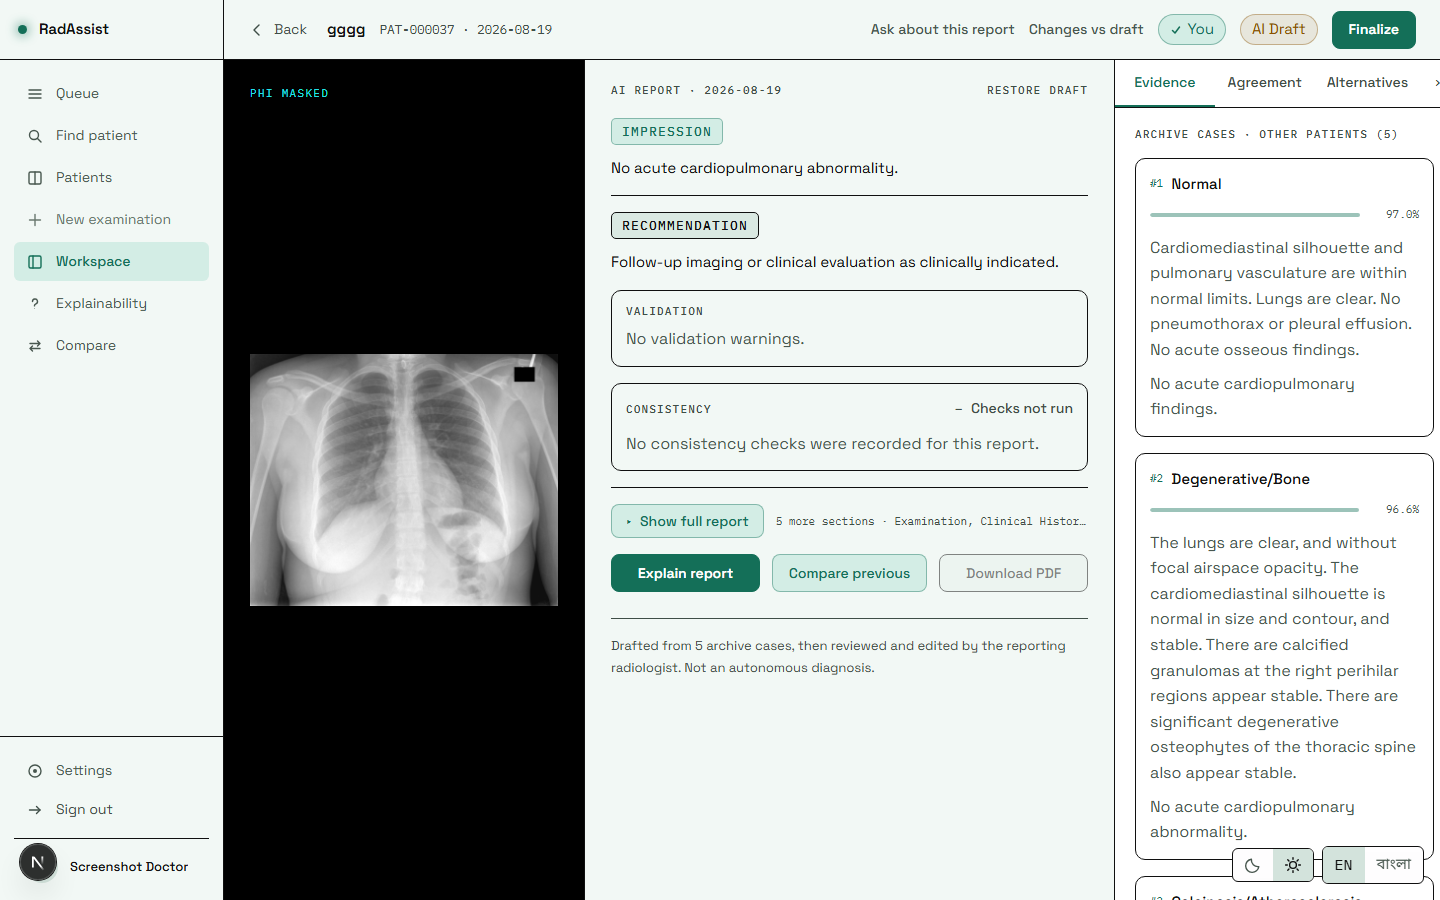
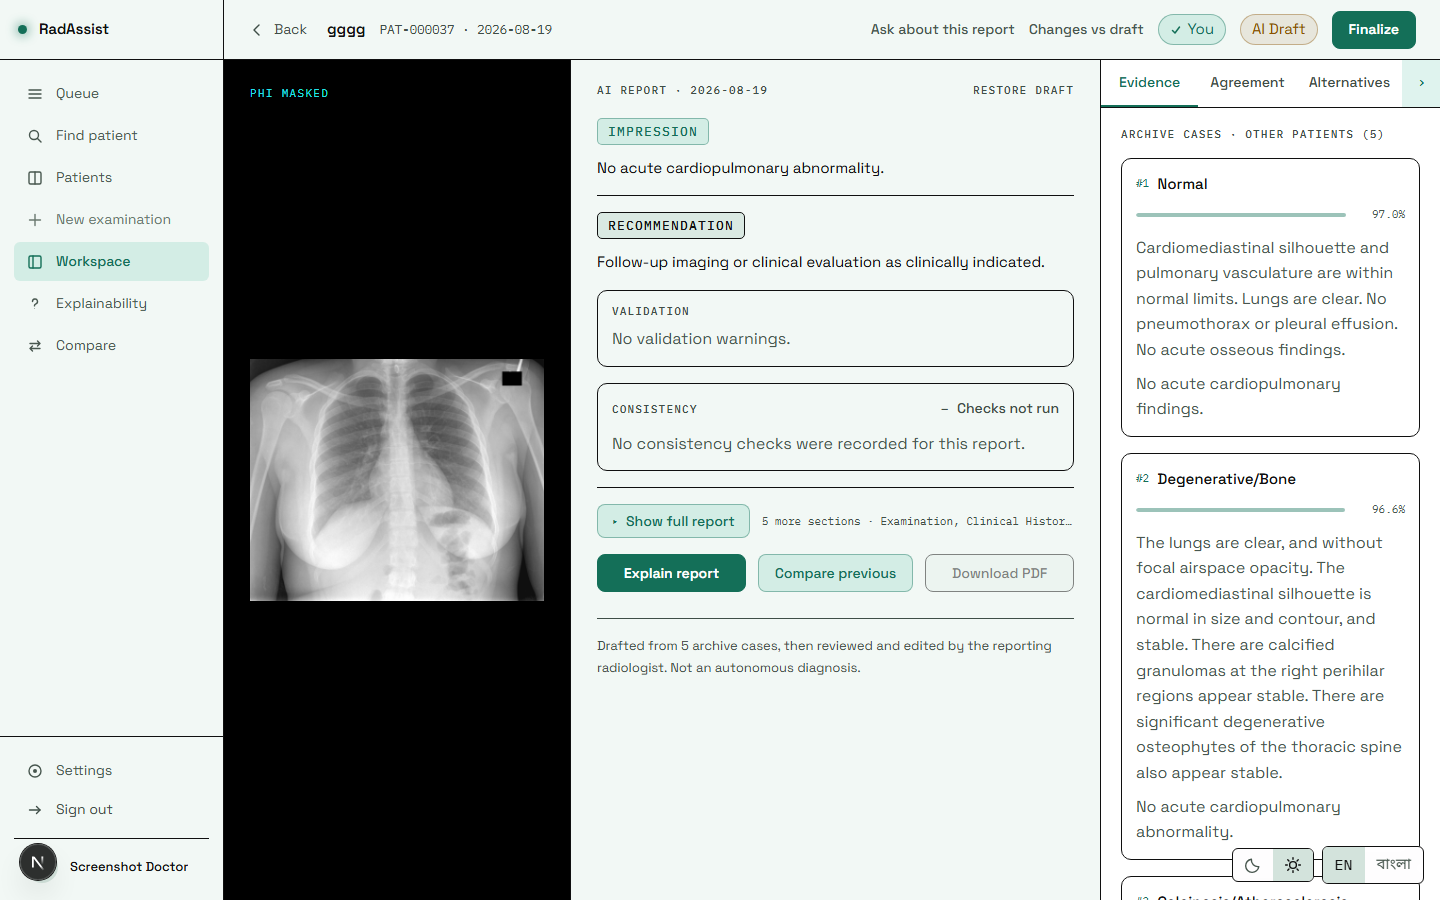
fix(ui): make the evidence panel's collapse control findable, and fit the station to its frame
The evidence sidebar has collapsed to a rail since the feature landed, but it
was reported as having no way to hide it. Two separate causes, both real.

THE CONTROL WAS CLIPPED. The station is 224 rail + 360 film + 530 report + 340
evidence = 1454px, inside a frame tokens.css calls "fixed 1440x900". The
rightmost 14px sat off screen, and what lived there was the collapse control
itself -- so the single affordance for putting the panel away was the one thing
a 1440px monitor could not show. The film floor was an inline min-w-[360px];
it is now --film-min at 346px, which is not a taste value but the number that
makes the four columns sum to exactly 1440. A new test asserts that sum, in
both the expanded and docked states, because every value involved was
individually fine and the defect was only in their total -- nothing in the type
system or the design gate could have caught it.

THE CONTROL WAS ALSO INVISIBLE. Collapsed, the way back was a 28px chevron in
tertiary grey with no border and no fill, sitting at the top of the rail. The
whole rail is now the button: a full-height target carrying the accent wash and
its own vertical "EVIDENCE" label, so the stripe says what it will open instead
of only that something will. Expanded, the hide control gets the same wash and
a left rule so it reads as a control rather than as a fourth, unlabelled tab.

A test now covers the thing that was actually wrong. Being findable by
[…]

diff --git a/frontend/src/components/report/evidence-sidebar.tsx b/frontend/src/components/report/evidence-sidebar.tsx
@@ -62,25 +62,44 @@ export function EvidenceSidebar({
       )}
     >
       {collapsed ? (
-        // The rail. One icon-only control, labelled for assistive tech, which
-        // is the only thing that can bring the panel back.
-        <div className="flex flex-col items-center py-12">
-          <button
-            type="button"
-            onClick={onToggle}
-            aria-expanded={false}
-            aria-controls={id}
-            aria-label={t("workspace.expandEvidence")}
-            title={t("workspace.expandEvidence")}
-            className={cn(
-              "flex h-28 w-28 items-center justify-center rounded-control",
-              "font-mono text-mono-meta text-text-tertiary",
-              "transition-colors duration-hover hover:bg-bg-hover hover:text-cyan",
-            )}
+        // THE WHOLE RAIL IS THE BUTTON.
+        //
+        // It was a 28px icon-only control at the top of the rail, and it was
+        // reported as invisible -- correctly: a bare chevron glyph in tertiary
+        // grey, with no border and no fill, is indistinguishable from
+        // decoration. A reader who collapsed the panel could not tell there
+        // was a way back, which defeats the entire reason this docks to a rail
+        // instead of closing.
+        //
+        // Two things fix that and they work together. The hit target is now
+        // the full height of the rail, so the click is hard to miss rather
+        // than needing to be aimed; and the rail carries its own name, set
+        // vertically, so it says WHAT it will open rather than only that
+        // something will. A docked panel that does not name itself is a
+        // mystery stripe.
+        <button
+          type="button"
+          onClick={onToggle}
+          aria-expanded={false}
+          aria-controls={id}
+          aria-label={t("workspace.expandEvidence")}
+          title={t("workspace.expandEvidence")}
+          className={cn(
+            "group flex flex-1 flex-col items-center gap-14 py-14",
+            "border-l-2 border-transparent bg-cyan-wash text-cyan",
+            "transition-colors duration-hover hover:border-cyan hover:bg-cyan hover:text-cyan-ink",
+          )}
+        >
+          <span aria-hidden="true" className="font-mono text-mono-meta-lg leading-none">
+            ‹
+          </span>
+          <span
+            aria-hidden="true"
+            className="font-mono text-section-label uppercase tracking-[0.12em] [writing-mode:vertical-rl]"
           >
-            <span aria-hidden="true">‹</span>
-          </button>
-        </div>
+            {t("workspace.tabEvidence")}
+          </span>
+        </button>
       ) : (
         <div className="flex flex-none items-stretch border-b border-hairline">
           {EVIDENCE_TABS.map((tab) => (
@@ -97,6 +116,10 @@ export function EvidenceSidebar({
               {t(`workspace.tab${tab.charAt(0).toUpperCase()}${tab.slice(1)}`)}
             </button>
           ))}
+          {/* The hide control. Given the accent wash and a left rule so it
+              reads as a control rather than as a fourth, unlabelled tab -- it
+              sat flush against the tabs in bare tertiary grey and was
+              reported as invisible. */}
           <button
             type="button"
             onClick={onToggle}
@@ -105,9 +128,10 @@ export function EvidenceSidebar({
             aria-label={t("workspace.collapseEvidence")}
             title={t("workspace.collapseEvidence")}
             className={cn(
-              "flex w-34 flex-none items-center justify-center border-b-2 border-transparent border-l border-l-hairline",
-              "font-mono text-mono-meta text-text-tertiary",
-              "transition-colors duration-hover hover:text-cyan",
+              "flex w-38 flex-none items-center justify-center",
+              "border-b-2 border-transparent border-l border-l-hairline bg-cyan-wash",
+              "font-mono text-mono-meta-lg text-cyan",
+              "transition-colors duration-hover hover:bg-cyan hover:text-cyan-ink",
             )}
           >
             <span aria-hidden="true">›</span>

diff --git a/frontend/src/styles/layout-tokens.test.ts b/frontend/src/styles/layout-tokens.test.ts
@@ -1,0 +1,55 @@
+import { readFileSync } from "node:fs";
+import { fileURLToPath } from "node:url";
+import { describe, expect, it } from "vitest";
+
+/**
+ * The three-column reading station has to ADD UP to the frame it declares.
+ *
+ * It did not. `--rail` 224 + an inline `min-w-[360px]` film + `--report-col`
+ * 530 + `--evidence-panel` 340 came to 1454px inside a frame tokens.css calls
+ * "fixed 1440x900", so the rightmost 14px sat off screen. The thing living in
+ * those 14px was the evidence panel's collapse control, which is how the one
+ * affordance for putting that panel away came to be reported as missing.
+ *
+ * Nothing in the type system or the design gate can catch that: every value
+ * involved was individually fine, and the defect was in their sum. So the sum
+ * is asserted here, and the film floor is a token rather than an arbitrary
+ * value written into the page.
+ *
+ * The horizontal scroll below this width is deliberate and stays -- the
+ * station may be wider than a small monitor. What must not happen is the
+ * station being wider than its OWN declared width.
+ */
+const tokens = readFileSync(
+  fileURLToPath(new URL("./tokens.css", import.meta.url)),
+  "utf-8",
+).replace(/\r\n/g, "\n");
+
+function px(name: string): number {
+  const m = tokens.match(new RegExp(`--${name}:\\s*(\\d+)px`));
+  expect(m, `--${name} must be defined in tokens.css as a px value`).not.toBeNull();
+  return Number(m![1]);
+}
+
+describe("the reading station fits the frame it declares", () => {
+  it("sums the four columns to exactly 1440", () => {
+    const total = px("rail") + px("film-min") + px("report-col") + px("evidence-panel");
+    expect(total).toBe(1440);
+  });
+
+  it("still fits once the evidence panel docks to its rail", () => {
+    // Collapsed, the report column grows and the panel shrinks; the station
+    // must not overflow in that state either.
+    const total = px("rail") + px("film-min") + px("report-col-wide") + px("evidence-rail");
+    expect(total).toBeLessThanOrEqual(1440);
+  });
+
+  it("keeps the film floor as a token, not an arbitrary value in the page", () => {
+    const page = readFileSync(
+      fileURLToPath(new URL("../app/reports/[reportId]/page.tsx", import.meta.url)),
+      "utf-8",
+    );
+    expect(page).toContain("min-w-film");
+    expect(page).not.toMatch(/min-w-\[\d+px\]/);
+  });
+});

diff --git a/frontend/src/components/report/evidence-sidebar.test.tsx b/frontend/src/components/report/evidence-sidebar.test.tsx
@@ -76,6 +76,25 @@ describe("Evidence sidebar — default and toggle", () => {
     expect(panel(container).hasAttribute("hidden")).toBe(true);
   });
 
+  it("makes the docked rail itself the control, and names what it opens", () => {
+    const { container } = render(<Harness />);
+    fireEvent.click(collapseBtn());
+
+    // The reopen control was a 28px chevron in tertiary grey, reported as
+    // invisible. Being findable by aria-label is not the same as being
+    // findable by eye, so this asserts the two things that fixed it: the
+    // button fills the rail rather than sitting as an icon inside it, and it
+    // carries the panel's own name so the stripe says what it will open.
+    const btn = expandBtn();
+    expect(btn.className).toContain("flex-1");
+    expect(btn.className).toContain("bg-cyan-wash");
+    expect(btn.textContent).toContain("Evidence");
+
+    // And it is the only thing in the rail -- nothing else to aim at or miss.
+    const rail = aside(container);
+    expect(rail.querySelectorAll("button")).toHaveLength(1);
+  });
+
   it("reopens from the rail", () => {
     const { container } = render(<Harness />);
     fireEvent.click(collapseBtn());

diff --git a/frontend/src/styles/tokens.css b/frontend/src/styles/tokens.css
@@ -179,6 +179,18 @@
   --evidence-rail:   48px;
   --report-col-wide: 700px;
 
+  /* ---- film column floor. 346px is not a taste value: it is what makes the
+     three-column station ADD UP to the 1440px frame declared above
+     (224 rail + 346 film + 530 report + 340 evidence = 1440). It was 360px,
+     written inline as an arbitrary min-w-[360px], which put the station at
+     1454px and pushed its last 14px off a 1440px screen. The column that
+     lived in those 14px was the evidence panel's hide control, so the one
+     affordance for putting the panel away was the one thing clipped — which
+     is how it came to be reported as missing. The horizontal scroll is still
+     there and still deliberate for monitors NARROWER than the station; what
+     changed is that the declared width is no longer one of them. ---- */
+  --film-min:        346px;
+
   /* ---- measure — the comfortable line length for continuous report prose,
      used by the report column AND the evidence panel so both read the same.
      Replaces a hardcoded max-w-[68ch] that existed in two components. ---- */

diff --git a/frontend/src/app/reports/[reportId]/page.tsx b/frontend/src/app/reports/[reportId]/page.tsx
@@ -552,7 +552,7 @@ export default function ReportWorkspacePage() {
           narrower than the station, scroll rather than clip a column. */}
       <div className="flex min-h-0 flex-1 overflow-x-auto">
         {/* Film -- the only pure-black surface */}
-        <div className="relative flex min-w-[360px] flex-1 items-center justify-center on-film bg-bg-film p-26">
+        <div className="relative flex min-w-film flex-1 items-center justify-center on-film bg-bg-film p-26">
           {/* eslint-disable-next-line @next/next/no-img-element */}
           <img
             src={retrievalSessionImageUrl(report.session_id)}

diff --git a/frontend/tailwind.config.ts b/frontend/tailwind.config.ts
@@ -173,6 +173,11 @@ const config: Config = {
         // arbitrary max-w-[68ch] that was written into two components.
         "report-prose": "var(--report-prose)",
       },
+      minWidth: {
+        // The film column's floor, sized so the station fits its declared
+        // 1440px frame rather than overflowing it by 14px.
+        film: "var(--film-min)",
+      },
       height: {
         "header-bar": "var(--header-bar)",
         "header-landing": "var(--header-landing)",
